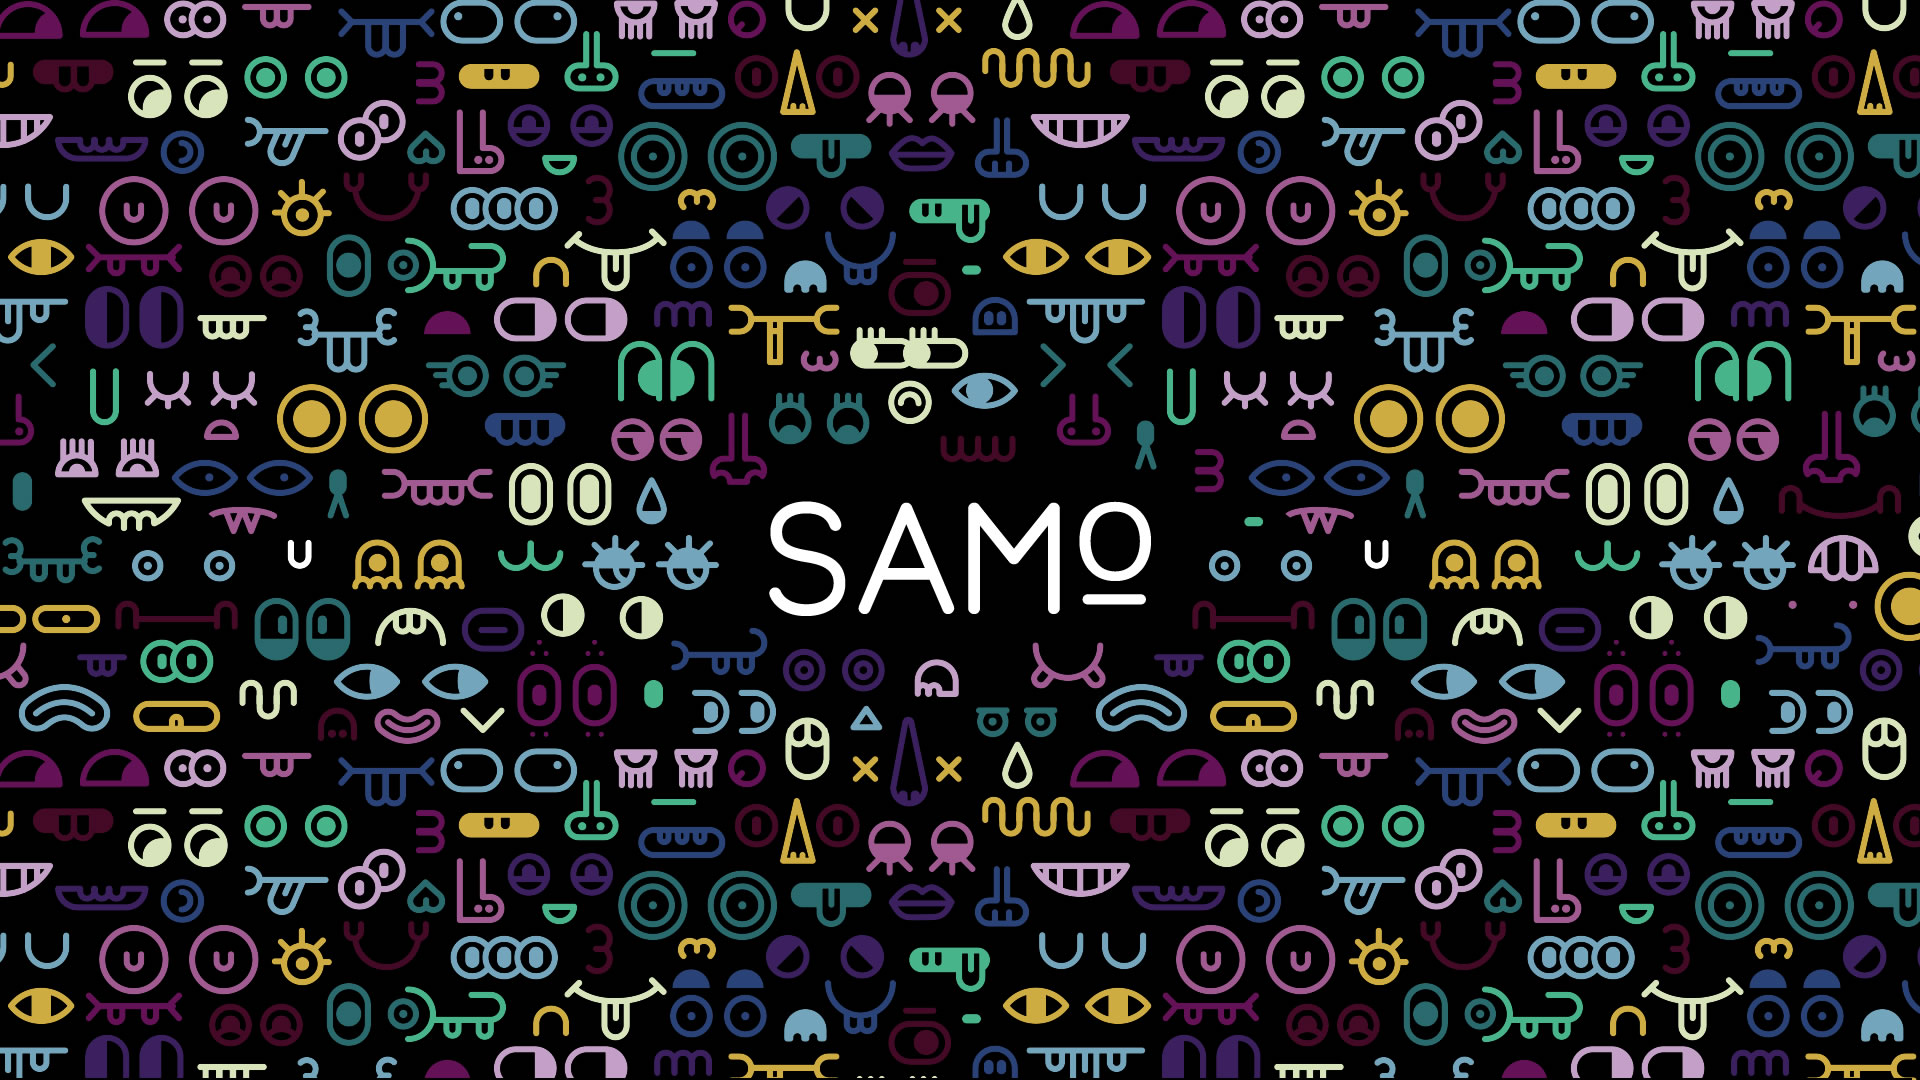
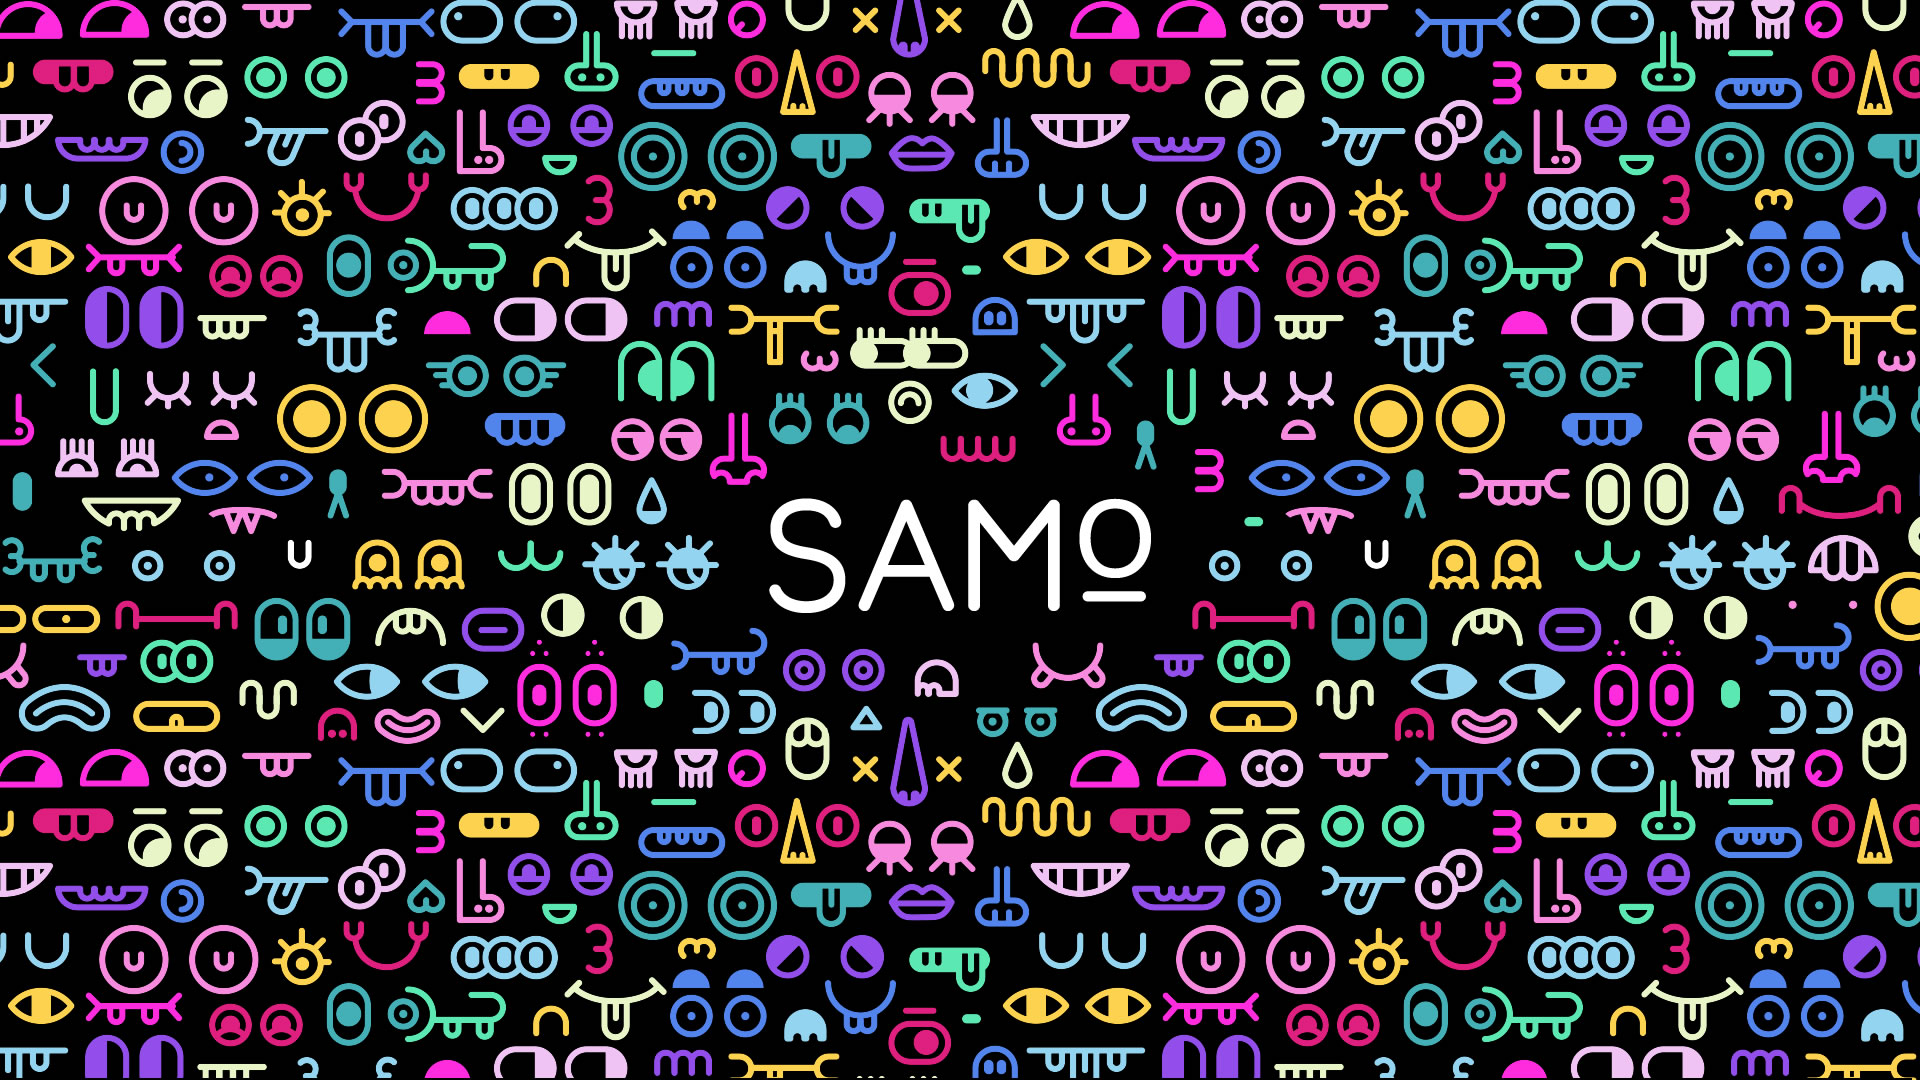
Corrected off-color in bg; iPhone 4/5/6 portrait

diff --git a/css/style.css b/css/style.css
@@ -67,10 +67,12 @@ font-style: normal;
   box-sizing: border-box; }
 
 html,
-body {background:#F8F4F1;height: 100%;min-height: 100%;}
-body {font-family:'Uma',sans-serif;font-weight:700;
--webkit-font-variant-ligatures: no-common-ligatures;
-font-variant-ligatures: none;}
+body {background:#F8F4F1;}
+body {
+	font-family:'Uma',sans-serif;
+	font-weight:700;
+	-webkit-font-variant-ligatures: no-common-ligatures;
+	font-variant-ligatures: no-common-ligatures;}
 
 .panel {clear: both;height: 100vh;/* overflow: hidden; */}
 
@@ -78,7 +80,7 @@ font-variant-ligatures: none;}
     border: 4px solid;
     border-radius: 8px;
     width: 60%;
-    margin: 5vh auto;
+    margin: 5% auto;
 }
 
 img {max-width: 100%;}
@@ -89,7 +91,7 @@ ul#download {margin: 0;overflow: hidden;/* padding: 0; */}
 float: left;
 text-indent: -999em;
 margin: 0;
-width: 50%;
+width: 48%;
 }
 
 a.ios {
@@ -104,9 +106,9 @@ background: url('../img/download-android.png') center no-repeat;
 display: block;
 }
 
-#download li a {margin: auto;background-size: contain;}
+#download li a {margin: auto;background-size: contain;max-width: 100%;}
 
-img.main {margin: 4rem 0;display: none;}
+#welcome .seven {display: none;}
 
 #samples {
     background-image: url('../img/samples.jpg');
@@ -142,7 +144,8 @@ img.main {margin: 4rem 0;display: none;}
 }
 
 .verticalalign {
-    position: relative;    top: 50%;    -webkit-transform: translateY(-50%);    -ms-transform: translateY(-50%);    transform: translateY(-50%);
+    position: relative;    
+    top: 50%;    -webkit-transform: translateY(-50%);    -ms-transform: translateY(-50%);    transform: translateY(-50%);
 }
 
 
@@ -173,7 +176,7 @@ footer .break {
 /* For devices larger than 550px */
 @media (min-width: 550px) {
   .container {
-    width: 80%; }
+    width: 90%; }
   .column,
   .columns {
     margin-left: 4%; }
@@ -252,7 +255,7 @@ html is set to 62.5% so that all the REM measurements throughout Skeleton
 are based on 10px sizing. So basically 1.5rem = 15px :) */
 html {
   font-size: 62.5%; }
-body {
+.break {
   font-size: 10px; /* currently ems cause chrome bug misinterpreting rems on body element */
   color: #222; }
 
@@ -260,11 +263,13 @@ body {
 /* Typography
 –––––––––––––––––––––––––––––––––––––––––––––––––– */
 h1, h2, h3, h4, h5, h6 {
-  margin-top: 0;
-  margin-bottom: 2rem;
-  font-weight: 300; 
--webkit-font-variant-ligatures: no-common-ligatures;
-font-variant-ligatures: none;}
+	margin-top: 0;
+	margin-bottom: 2rem;
+	font-weight: 300; 
+	-webkit-font-variant-ligatures: no-common-ligatures;
+	font-variant-ligatures: no-common-ligatures;
+	max-width: 100%;
+}
 h0 { font-size: 4.0rem; line-height: 1.2;  letter-spacing: -.1rem;}
 h1 { font-size: 3.6rem; line-height: 1.25; letter-spacing: -.1rem; }
 h2 { font-size: 1.6rem; line-height: 1.3;  letter-spacing: -.1rem; }
@@ -276,16 +281,16 @@ h5 { font-size: 1.5rem; line-height: 1.6;  letter-spacing: 0; }
     text-indent: -999em;
     width: 300px;
     height: 90px;
-    background: url('../img/logo.png') no-repeat;
+    background: url('../img/logo.png') center no-repeat;
     background-size: contain;
     max-width: 100%;
-    margin: 10vh auto;
+    margin: 0 auto 10%;
 }
 
 h2 {
     font-weight: 700;
     text-transform: uppercase;
-    margin: 4vh auto;
+    margin: 0 auto 4%;
     text-align: center;
 }
 h3 {
@@ -303,9 +308,9 @@ h3 {
 	h5 { font-size: 1.8rem; }
 	h6 { font-size: 1.5rem; }
 	h1, h2, h3, h4, h5, h6 {text-align:left;}
-	footer h1,
-	footer h2,
-	footer h3 {text-align:center}
+	#footer h1,
+	#footer h2,
+	#footer h3 {text-align:center}
 }
 
 p {
@@ -551,19 +556,20 @@ hr {
 
 
 img.about {
-    max-height: 90vh;
-    margin: 5vh auto;
+    max-height: 90%;
+    margin: 2vh auto 0;
     display: inline-block;
 }
 
 #about p {
-    font-size: 1.7rem;
+    font-size: 1.6rem;
     line-height: 150%;
     text-align: center;
+    margin: auto;
 }
 
 #about h2 {
-    font-size: 2.5rem;
+    font-size: 2.2rem;
 }
 
 #about .seven.columns.panel {
@@ -582,6 +588,21 @@ section#about-2 {
 }
 
 
+#about .columns {
+    text-align: center;
+}
+
+.row:before, /* :before to uncollapse the top margin */
+.row:after{
+    display: block;
+    clear: both; /* clear fix */
+    content: "\a0 "; /* &nbsp; - just a space doesn't uncollapse margins */
+    visibility: hidden; /* make sure not to show anything */
+    height: 0;
+}
+.row{
+    zoom: 1; /* solves it all for IE < 8, and doesn't hurt other browsers */
+}
 
 
 /* Media Queries
@@ -595,27 +616,31 @@ there.
 
 
 /* Larger than mobile */
-@media (min-width: 400px) {}
+@media (min-width: 400px) {
+
+	h1.logo {margin:3% auto}
+	
+}
 
 /* Larger than phablet (also point when grid becomes active) */
 @media (min-width: 550px) {
-	h1.logo {margin-top: 265px;width: 623px;height: 186px;}
+	h1.logo {width: 623px;}
 
 	#welcome h3 {width: 580px;}
 
-	ul#download {margin-top: 70px;}
+	ul#download {margin-top: 10%;}
 
-	#download li {float: left;text-indent: -999em;margin-right: 20px;}
+	#download li {float: left;text-indent: -999em;margin-right: 4%;}
+	#download li:last-child {margin:0}
+	#download li a {max-height: 45px;}
 
 	a.ios {width: 203px;height: 60px;background: url('../img/download-ios.png') no-repeat;display: block;}
 
 	a.android {width: 172px;height: 60px;background: url('../img/download-android.png') no-repeat;display: block;}
 
-	img.main {margin-top: 200px;}
+	#welcome .seven {display: block;}
 
-	img.about {margin-top: 120px;margin-left: 90px;}
-
-	#about h2 {margin-top: 270px;}
+	#about h2 {font-size: 3rem;text-align: center;}
 
 	#about h3 {/* width: 630px; */}
 
@@ -623,7 +648,11 @@ there.
 	footer,
 	header {height: 100vh;}
 
-	
+	.break {margin: 10% auto;}
+
+	#about p {font-size:1.8rem}
+
+	#footer {text-align:center}
 }
 
 /* Larger than tablet */
@@ -636,17 +665,9 @@ there.
 @media (min-width: 1000px) {
 
 	.size {max-width: 65%;}
-	.verticalalign {
-		-webkit-transform: translateY(25%);
-		-ms-transform: translateY(-50%);
-		transform: translateY(25%);
-		position: relative;
-	}
 
 
 }
 
 /* Larger than Desktop HD */
 @media (min-width: 1200px) {}
-
-

diff --git a/index.html b/index.html
@@ -17,19 +17,20 @@
 		<div class="container">
 			<div class="row">
 				<div class="seven columns u-pull-right">
-						<img src="img/main-01.jpg" class="main" alt="SAM-o">
+					<img src="img/main-01.jpg" class="main verticalalign" alt="SAM-o">
 				</div>
 				<div class="five columns u-pull-right">
-					<h1 class="logo">SAM-o</h1>
-					<h2>The app with hundreds of thousands of faces in your pocket.</h2>
-					<div class="break"></div>
-					<h3>SAM-o is an awesome new app for managing your digital imaginary friends.</h3>
-					<ul id="download">
-						<li><a href="#" class="ios">Download on the App Store</a></li>
-						<li><a href="#" class="android">Get it on Play Store</a></li>
-					</ul>
+					<div class="inner verticalalign">
+						<h1 class="logo">SAM-o</h1>
+						<h2>The app with hundreds of thousands of faces in your pocket.</h2>
+						<div class="break"></div>
+						<h3>SAM-o is an awesome new app for managing your digital imaginary friends.</h3>
+						<ul id="download">
+							<li><a href="#" class="ios">Download on the App Store</a></li>
+							<li><a href="#" class="android">Get it on Play Store</a></li>
+						</ul>
+					</div>
 				</div>
-
 			</div>
 		</div>
 	</section>
@@ -37,11 +38,13 @@
 		<div class="container">
 			<div class="row">
 				<div class="seven columns">
-					<img src="img/main-02.jpg" class="about" alt="SAM-o">
+					<img src="img/main-02.jpg" class="about verticalalign" alt="SAM-o">
 				</div>
 				<div class="five columns">
-					<h2>The app with hundreds of thousands of faces in your pocket.</h2>
-					<p>Meditation umami wayfarers Echo Park. Roof party Pinterest twee, messenger bag yr fap iPhone artisan. Lumbersexual chillwave drinking vinegar, Intelligentsia tofu gentrify craft beer swag locavore four loko retro Bushwick cred. Artisan dreamcatcher Helvetica cray, quinoa Schlitz squid try-hard PBR American Apparel.</p>
+					<div class="inner verticalalign">
+						<h2>The app with hundreds of thousands of faces in your pocket.</h2>
+						<p>Meditation umami wayfarers Echo Park. Roof party Pinterest twee, messenger bag yr fap iPhone artisan. Lumbersexual chillwave drinking vinegar, Intelligentsia tofu gentrify craft beer swag locavore four loko retro Bushwick cred. Artisan dreamcatcher Helvetica cray, quinoa Schlitz squid try-hard PBR American Apparel.</p>
+					</div>
 				</div>
 			</div>
 		</div>
@@ -73,6 +76,10 @@
 <script type="text/javascript" src="js/jquery.fullPage.min.js"></script>
 <script type="text/javascript">
 	$(document).ready(function() {
+		$( window ).resize(function() {
+			$('.columns').css('height', window.innerHeight+'px');
+		});
+		$('.columns').css('height', window.innerHeight+'px');
 		$.breakpoint({
 			condition: function () {
 				return window.matchMedia('(min-width:750px)').matches;
@@ -95,8 +102,7 @@
 				$('#about').after('<section id="crap" class="panel"></section>');
 				$.fn.fullpage.destroy('all');
 				$('#fullpage').fullpage({
-					sectionSelector: '.panel',
-					//responsive: 900
+					sectionSelector: '.panel'
 				});
 				// Code will run whenever condition() becomes false
 				// (if it was previously true).
@@ -105,9 +111,9 @@
 			}
 		});
 		$('#fullpage').fullpage({
-			sectionSelector: '.panel',
-			//responsive: 900
+			sectionSelector: '.panel'
 		});
+		
 	});
 </script>
 </html>
